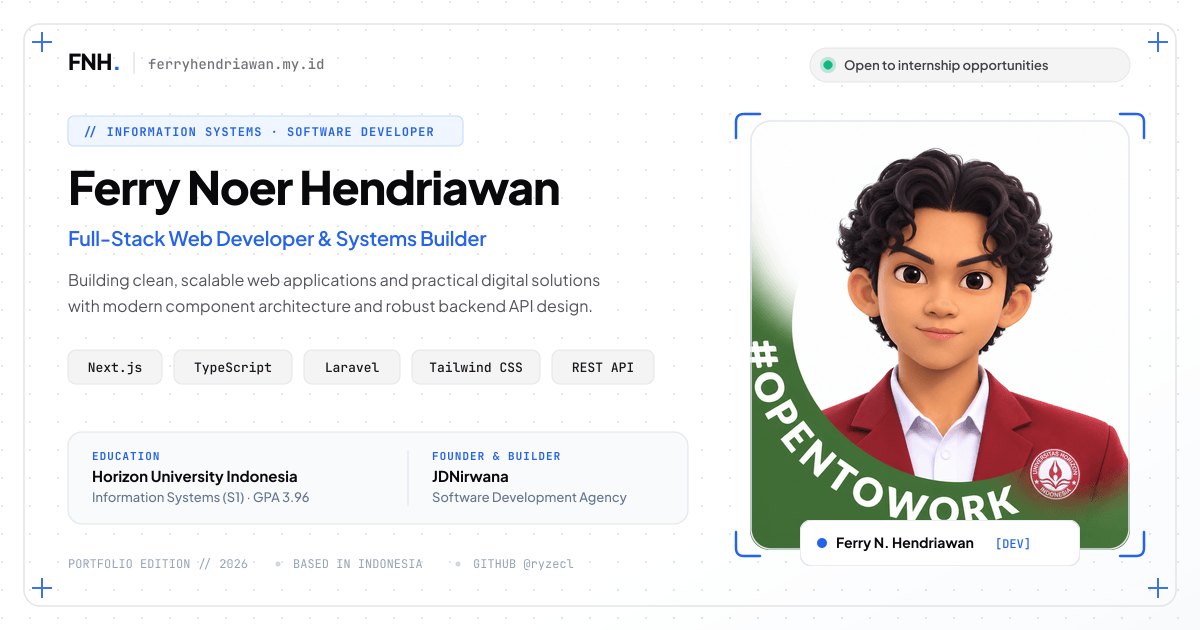
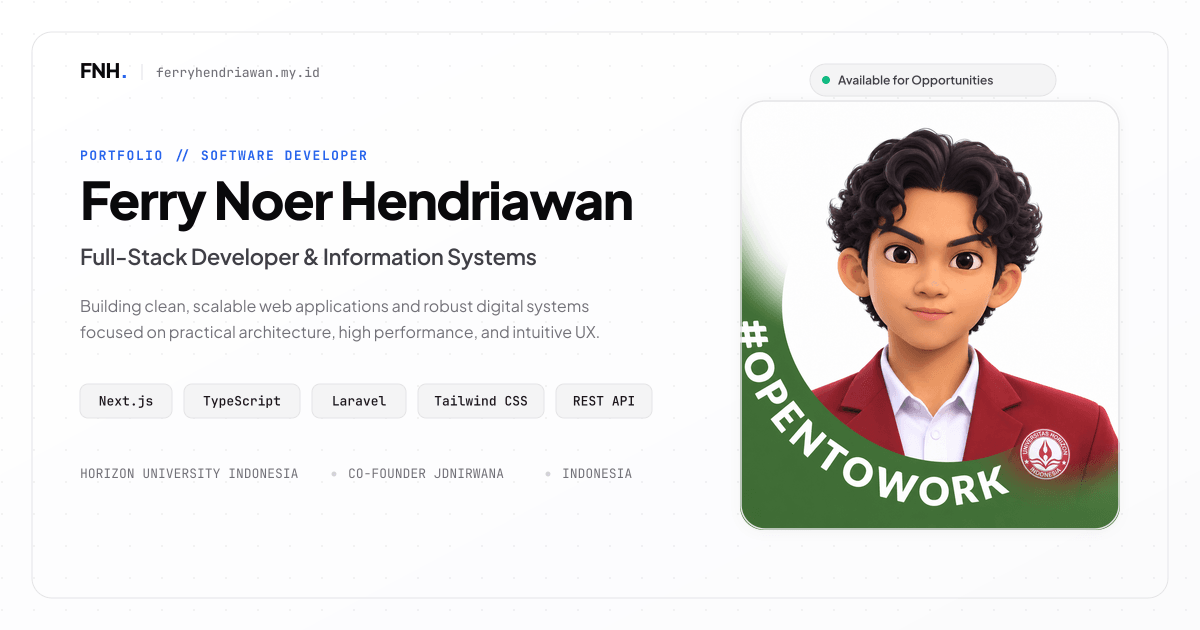
Update OpenGraph and Twitter images generator script

diff --git a/scripts/generate-assets.js b/scripts/generate-assets.js
@@ -102,32 +102,31 @@ async function run() {
   fs.writeFileSync(path.join(imagesDir, 'project-placeholder.svg'), svgProject.trim());
   console.log('Generated project-placeholder.png (size:', projectPngBuffer.length, 'bytes)');
 
-  // 2. Generate and compress high-impact OG Image (1200x630)
-  // Perfectly matched with the portfolio's clean technical theme & Ferry's portrait
+  // 2. Generate and compress clean, professional, minimalist OG Image (1200x630)
   const width = 1200;
   const height = 630;
   const photoW = 380;
   const photoH = 430;
-  const photoRx = 20;
+  const photoRx = 24;
 
   const photoPath = path.join(imagesDir, 'linkedin-photo.png');
-  const photoMaskSvg = Buffer.from(`
+  const maskSvg = Buffer.from(`
     <svg width="${photoW}" height="${photoH}">
       <rect x="0" y="0" width="${photoW}" height="${photoH}" rx="${photoRx}" ry="${photoRx}" fill="#ffffff" />
     </svg>
   `);
 
-  const borderOverlaySvg = Buffer.from(`
+  const borderSvg = Buffer.from(`
     <svg width="${photoW}" height="${photoH}">
-      <rect x="1" y="1" width="${photoW - 2}" height="${photoH - 2}" rx="${photoRx}" fill="none" stroke="#E2E8F0" stroke-width="1.5" />
+      <rect x="1" y="1" width="${photoW - 2}" height="${photoH - 2}" rx="${photoRx}" fill="none" stroke="#E4E4E7" stroke-width="1.5" />
     </svg>
   `);
 
   const processedPhoto = await sharp(photoPath)
-    .resize(photoW, photoH, { fit: 'cover', position: sharp.strategy.attention })
+    .resize(photoW, photoH, { fit: 'cover', position: 'center' })
     .composite([
-      { input: photoMaskSvg, blend: 'dest-in' },
-      { input: borderOverlaySvg, blend: 'over' },
+      { input: maskSvg, blend: 'dest-in' },
+      { input: borderSvg, blend: 'over' },
     ])
     .png()
     .toBuffer();
@@ -135,184 +134,94 @@ async function run() {
   const svgOg = `
 <svg width="${width}" height="${height}" viewBox="0 0 ${width} ${height}" xmlns="http://www.w3.org/2000/svg">
   <defs>
-    <linearGradient id="bgGrad" x1="0%" y1="0%" x2="100%" y2="100%">
+    <linearGradient id="canvasBg" x1="0%" y1="0%" x2="100%" y2="100%">
       <stop offset="0%" stop-color="#FFFFFF" />
-      <stop offset="70%" stop-color="#FFFFFF" />
-      <stop offset="100%" stop-color="#F8FAFC" />
+      <stop offset="100%" stop-color="#FBFBFD" />
     </linearGradient>
 
-    <pattern id="techDots" width="28" height="28" patternUnits="userSpaceOnUse">
-      <circle cx="2" cy="2" r="1.2" fill="#09090B" opacity="0.10" />
+    <pattern id="cleanDots" width="32" height="32" patternUnits="userSpaceOnUse">
+      <circle cx="2" cy="2" r="1" fill="#09090B" opacity="0.06" />
     </pattern>
 
-    <filter id="photoShadow" x="-10%" y="-10%" width="120%" height="125%" filterUnits="userSpaceOnUse">
-      <feDropShadow dx="0" dy="12" stdDeviation="20" flood-color="#2563EB" flood-opacity="0.10" />
-      <feDropShadow dx="0" dy="4" stdDeviation="8" flood-color="#09090B" flood-opacity="0.06" />
+    <filter id="softShadow" x="-15%" y="-15%" width="130%" height="130%">
+      <feDropShadow dx="0" dy="16" stdDeviation="24" flood-color="#000000" flood-opacity="0.06" />
+      <feDropShadow dx="0" dy="2" stdDeviation="6" flood-color="#000000" flood-opacity="0.04" />
     </filter>
   </defs>
 
-  <!-- 1. Background Fill & Pattern -->
-  <rect width="${width}" height="${height}" fill="url(#bgGrad)" />
-  <rect width="${width}" height="${height}" fill="url(#techDots)" />
+  <rect width="${width}" height="${height}" fill="url(#canvasBg)" />
+  <rect width="${width}" height="${height}" fill="url(#cleanDots)" />
 
-  <!-- 2. Outer Technical Border Frame -->
-  <rect x="24" y="24" width="1152" height="582" rx="16" fill="none" stroke="#E4E4E7" stroke-width="1.5" />
+  <rect x="32" y="32" width="1136" height="566" rx="20" fill="none" stroke="#E4E4E7" stroke-width="1" />
 
-  <!-- Corner Crosshairs (+) in Electric Blue -->
-  <g stroke="#2563EB" stroke-width="2" opacity="0.9">
-    <!-- Top-Left -->
-    <line x1="32" y1="42" x2="52" y2="42" />
-    <line x1="42" y1="32" x2="42" y2="52" />
-
-    <!-- Top-Right -->
-    <line x1="1148" y1="42" x2="1168" y2="42" />
-    <line x1="1158" y1="32" x2="1158" y2="52" />
-
-    <!-- Bottom-Left -->
-    <line x1="32" y1="588" x2="52" y2="588" />
-    <line x1="42" y1="578" x2="42" y2="598" />
-
-    <!-- Bottom-Right -->
-    <line x1="1148" y1="588" x2="1168" y2="588" />
-    <line x1="1158" y1="578" x2="1158" y2="598" />
-  </g>
-
-  <!-- 3. Top Header Bar -->
-  <g font-family="'Plus Jakarta Sans', 'Segoe UI', -apple-system, sans-serif">
-    <text x="68" y="70" font-size="22" font-weight="800" fill="#09090B" letter-spacing="-0.5">FNH<tspan fill="#2563EB">.</tspan></text>
-  </g>
-  <line x1="134" y1="52" x2="134" y2="74" stroke="#E4E4E7" stroke-width="1.5" />
-  <text x="148" y="69" font-family="'JetBrains Mono', Consolas, monospace" font-size="14" font-weight="600" fill="#71717A">ferryhendriawan.my.id</text>
-
-  <!-- Status Pill at Top Right -->
-  <g transform="translate(810, 48)">
-    <rect x="0" y="0" width="320" height="34" rx="17" fill="#F4F4F5" stroke="#E4E4E7" stroke-width="1" />
-    <circle cx="18" cy="17" r="4.5" fill="#10B981" />
-    <circle cx="18" cy="17" r="8" fill="#10B981" opacity="0.25" />
-    <text x="34" y="22" font-family="'Plus Jakarta Sans', 'Segoe UI', sans-serif" font-size="13" font-weight="600" fill="#3F3F46">
-      Open to internship opportunities
+  <!-- Top Navigation / Brand Anchor -->
+  <g transform="translate(80, 78)">
+    <text x="0" y="0" font-family="'Plus Jakarta Sans', 'Segoe UI', -apple-system, sans-serif" font-size="20" font-weight="800" fill="#09090B" letter-spacing="-0.5">
+      FNH<tspan fill="#2563EB">.</tspan>
     </text>
-  </g>
-
-  <!-- 4. Left Hero Content Column -->
-  <!-- Technical Eyebrow Pill -->
-  <g transform="translate(68, 116)">
-    <rect x="0" y="0" width="395" height="30" rx="6" fill="#EFF6FF" stroke="#BFDBFE" stroke-width="1" />
-    <text x="14" y="20" font-family="'JetBrains Mono', Consolas, monospace" font-size="12" font-weight="700" fill="#2563EB" letter-spacing="1">
-      // INFORMATION SYSTEMS · SOFTWARE DEVELOPER
+    <line x1="62" y1="-14" x2="62" y2="2" stroke="#E4E4E7" stroke-width="1" />
+    <text x="76" y="-1" font-family="'JetBrains Mono', Consolas, monospace" font-size="13" font-weight="500" fill="#71717A">
+      ferryhendriawan.my.id
     </text>
-  </g>
 
-  <!-- Main Name Display Headline -->
-  <text x="68" y="205" font-family="'Plus Jakarta Sans', 'Segoe UI', -apple-system, sans-serif" font-size="46" font-weight="800" fill="#09090B" letter-spacing="-1.2">
-    Ferry Noer Hendriawan
-  </text>
-
-  <!-- Professional Sub-headline -->
-  <text x="68" y="246" font-family="'Plus Jakarta Sans', 'Segoe UI', -apple-system, sans-serif" font-size="20" font-weight="600" fill="#2563EB" letter-spacing="-0.3">
-    Full-Stack Web Developer &amp; Systems Builder
-  </text>
-
-  <!-- Description / Pitch -->
-  <g font-family="'Plus Jakarta Sans', 'Segoe UI', -apple-system, sans-serif" font-size="16" fill="#52525B">
-    <text x="68" y="286">Building clean, scalable web applications and practical digital solutions</text>
-    <text x="68" y="312">with modern component architecture and robust backend API design.</text>
-  </g>
-
-  <!-- Tech Stack Chips -->
-  <g transform="translate(68, 350)" font-family="'JetBrains Mono', Consolas, monospace" font-size="13" font-weight="600">
-    <!-- Next.js -->
-    <rect x="0" y="0" width="94" height="34" rx="8" fill="#F4F4F5" stroke="#E4E4E7" stroke-width="1" />
-    <text x="47" y="22" fill="#18181B" text-anchor="middle">Next.js</text>
-
-    <!-- TypeScript -->
-    <rect x="106" y="0" width="118" height="34" rx="8" fill="#F4F4F5" stroke="#E4E4E7" stroke-width="1" />
-    <text x="165" y="22" fill="#18181B" text-anchor="middle">TypeScript</text>
-
-    <!-- Laravel -->
-    <rect x="236" y="0" width="96" height="34" rx="8" fill="#F4F4F5" stroke="#E4E4E7" stroke-width="1" />
-    <text x="284" y="22" fill="#18181B" text-anchor="middle">Laravel</text>
-
-    <!-- Tailwind -->
-    <rect x="344" y="0" width="128" height="34" rx="8" fill="#F4F4F5" stroke="#E4E4E7" stroke-width="1" />
-    <text x="408" y="22" fill="#18181B" text-anchor="middle">Tailwind CSS</text>
-
-    <!-- REST API -->
-    <rect x="484" y="0" width="102" height="34" rx="8" fill="#F4F4F5" stroke="#E4E4E7" stroke-width="1" />
-    <text x="535" y="22" fill="#18181B" text-anchor="middle">REST API</text>
-  </g>
-
-  <!-- Bottom Academic & Agency Banner -->
-  <g transform="translate(68, 432)">
-    <rect x="0" y="0" width="620" height="92" rx="14" fill="#F8FAFC" stroke="#E2E8F0" stroke-width="1.2" />
-
-    <!-- Education Column -->
-    <g transform="translate(24, 28)">
-      <text x="0" y="0" font-family="'JetBrains Mono', Consolas, monospace" font-size="11" font-weight="700" fill="#2563EB" letter-spacing="1">
-        EDUCATION
-      </text>
-      <text x="0" y="22" font-family="'Plus Jakarta Sans', 'Segoe UI', sans-serif" font-size="15" font-weight="700" fill="#09090B">
-        Horizon University Indonesia
-      </text>
-      <text x="0" y="42" font-family="'Plus Jakarta Sans', 'Segoe UI', sans-serif" font-size="13" font-weight="500" fill="#64748B">
-        Information Systems (S1) · GPA 3.96
-      </text>
-    </g>
-
-    <!-- Divider -->
-    <line x1="340" y1="18" x2="340" y2="74" stroke="#E2E8F0" stroke-width="1.2" />
-
-    <!-- Agency / Role Column -->
-    <g transform="translate(364, 28)">
-      <text x="0" y="0" font-family="'JetBrains Mono', Consolas, monospace" font-size="11" font-weight="700" fill="#2563EB" letter-spacing="1">
-        FOUNDER &amp; BUILDER
-      </text>
-      <text x="0" y="22" font-family="'Plus Jakarta Sans', 'Segoe UI', sans-serif" font-size="15" font-weight="700" fill="#09090B">
-        JDNirwana
-      </text>
-      <text x="0" y="42" font-family="'Plus Jakarta Sans', 'Segoe UI', sans-serif" font-size="13" font-weight="500" fill="#64748B">
-        Software Development Agency
+    <!-- Status pill -->
+    <g transform="translate(730, -14)">
+      <rect x="0" y="0" width="246" height="32" rx="16" fill="#F4F4F5" stroke="#E4E4E7" stroke-width="1" />
+      <circle cx="16" cy="16" r="4" fill="#10B981" />
+      <text x="28" y="20.5" font-family="'Plus Jakarta Sans', 'Segoe UI', sans-serif" font-size="12" font-weight="600" fill="#3F3F46">
+        Available for Opportunities
       </text>
     </g>
   </g>
 
-  <!-- Footer Meta Line -->
-  <g transform="translate(68, 568)" font-family="'JetBrains Mono', Consolas, monospace" font-size="12" fill="#94A3B8">
-    <text x="0" y="0">PORTFOLIO EDITION // 2026</text>
-    <circle cx="210" cy="-4" r="2.5" fill="#CBD5E1" />
-    <text x="225" y="0">BASED IN INDONESIA</text>
-    <circle cx="390" cy="-4" r="2.5" fill="#CBD5E1" />
-    <text x="405" y="0">GITHUB @ryzecl</text>
+  <!-- Left Main Content -->
+  <g transform="translate(80, 160)">
+    <text x="0" y="0" font-family="'JetBrains Mono', Consolas, monospace" font-size="13" font-weight="700" fill="#2563EB" letter-spacing="1.5">
+      PORTFOLIO // SOFTWARE DEVELOPER
+    </text>
+
+    <text x="0" y="60" font-family="'Plus Jakarta Sans', 'Segoe UI', -apple-system, sans-serif" font-size="52" font-weight="800" fill="#09090B" letter-spacing="-1.5">
+      Ferry Noer Hendriawan
+    </text>
+
+    <text x="0" y="105" font-family="'Plus Jakarta Sans', 'Segoe UI', sans-serif" font-size="22" font-weight="600" fill="#3F3F46" letter-spacing="-0.3">
+      Full-Stack Developer &amp; Information Systems
+    </text>
+
+    <g font-family="'Plus Jakarta Sans', 'Segoe UI', sans-serif" font-size="16" fill="#71717A">
+      <text x="0" y="152">Building clean, scalable web applications and robust digital systems</text>
+      <text x="0" y="178">focused on practical architecture, high performance, and intuitive UX.</text>
+    </g>
+
+    <g transform="translate(0, 224)" font-family="'JetBrains Mono', Consolas, monospace" font-size="13" font-weight="600">
+      <rect x="0" y="0" width="92" height="34" rx="8" fill="#F4F4F5" stroke="#E4E4E7" stroke-width="1" />
+      <text x="46" y="21.5" fill="#18181B" text-anchor="middle">Next.js</text>
+
+      <rect x="104" y="0" width="116" height="34" rx="8" fill="#F4F4F5" stroke="#E4E4E7" stroke-width="1" />
+      <text x="162" y="21.5" fill="#18181B" text-anchor="middle">TypeScript</text>
+
+      <rect x="232" y="0" width="94" height="34" rx="8" fill="#F4F4F5" stroke="#E4E4E7" stroke-width="1" />
+      <text x="279" y="21.5" fill="#18181B" text-anchor="middle">Laravel</text>
+
+      <rect x="338" y="0" width="126" height="34" rx="8" fill="#F4F4F5" stroke="#E4E4E7" stroke-width="1" />
+      <text x="401" y="21.5" fill="#18181B" text-anchor="middle">Tailwind CSS</text>
+
+      <rect x="476" y="0" width="96" height="34" rx="8" fill="#F4F4F5" stroke="#E4E4E7" stroke-width="1" />
+      <text x="524" y="21.5" fill="#18181B" text-anchor="middle">REST API</text>
+    </g>
+
+    <g transform="translate(0, 318)" font-family="'JetBrains Mono', Consolas, monospace" font-size="13" fill="#71717A">
+      <text x="0" y="0">HORIZON UNIVERSITY INDONESIA</text>
+      <circle cx="254" cy="-4" r="2.5" fill="#CBD5E1" />
+      <text x="268" y="0">CO-FOUNDER JDNIRWANA</text>
+      <circle cx="468" cy="-4" r="2.5" fill="#CBD5E1" />
+      <text x="482" y="0">INDONESIA</text>
+    </g>
   </g>
 
-  <!-- 5. Right Column: Corner Brackets around Photo Card -->
-  <g stroke="#2563EB" stroke-width="2.5" fill="none" stroke-linecap="round">
-    <!-- Top-Left -->
-    <path d="M 736 138 L 736 122 Q 736 114 744 114 L 760 114" />
-    <!-- Top-Right -->
-    <path d="M 1120 114 L 1136 114 Q 1144 114 1144 122 L 1144 138" />
-    <!-- Bottom-Left -->
-    <path d="M 736 532 L 736 548 Q 736 556 744 556 L 760 556" />
-    <!-- Bottom-Right -->
-    <path d="M 1120 556 L 1136 556 Q 1144 556 1144 548 L 1144 532" />
-  </g>
+  <rect x="740" y="100" width="${photoW}" height="${photoH}" rx="${photoRx}" fill="#FFFFFF" filter="url(#softShadow)" />
 </svg>
 `;
-
-  const overlayBadgeW = 280;
-  const overlayBadgeH = 46;
-  const badgeSvg = Buffer.from(`
-    <svg width="${overlayBadgeW}" height="${overlayBadgeH}">
-      <rect x="0" y="0" width="${overlayBadgeW}" height="${overlayBadgeH}" rx="12" fill="#FFFFFF" stroke="#E2E8F0" stroke-width="1.5" />
-      <circle cx="22" cy="23" r="5" fill="#2563EB" />
-      <text x="36" y="28" font-family="'Plus Jakarta Sans', 'Segoe UI', sans-serif" font-size="14" font-weight="700" fill="#09090B">
-        Ferry N. Hendriawan
-      </text>
-      <text x="195" y="28" font-family="'JetBrains Mono', Consolas, monospace" font-size="12" font-weight="600" fill="#2563EB">
-        [DEV]
-      </text>
-    </svg>
-  `);
 
   const basePng = await sharp(Buffer.from(svgOg)).png().toBuffer();
 
@@ -320,13 +229,8 @@ async function run() {
     .composite([
       {
         input: processedPhoto,
-        top: 120,
-        left: 750,
-      },
-      {
-        input: badgeSvg,
-        top: 520,
-        left: 800,
+        top: 100,
+        left: 740,
       },
     ])
     .png({ quality: 90, compressionLevel: 9, palette: true })
@@ -337,7 +241,7 @@ async function run() {
   fs.writeFileSync(path.join(appDir, 'opengraph-image.png'), finalOgImage);
   fs.writeFileSync(path.join(appDir, 'twitter-image.png'), finalOgImage);
 
-  console.log('Generated public/images/og-image.png (size:', finalOgImage.length, 'bytes /', (finalOgImage.length / 1024).toFixed(1), 'KB)');
+  console.log('Generated clean public/images/og-image.png (size:', finalOgImage.length, 'bytes /', (finalOgImage.length / 1024).toFixed(1), 'KB)');
   console.log('Synchronized app/opengraph-image.png & app/twitter-image.png');
 }
 
